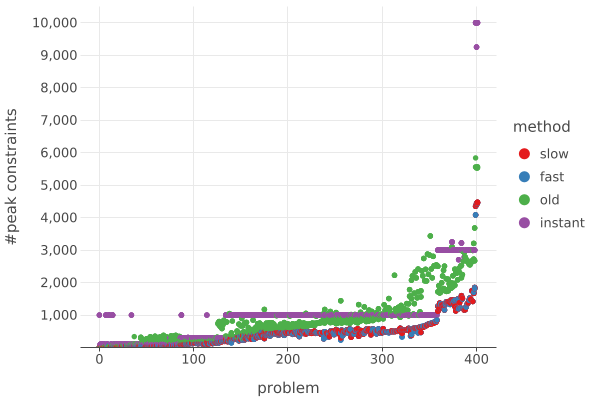
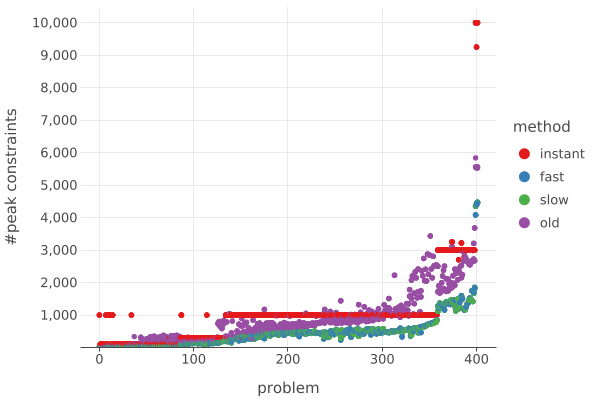
Finishing touch, I hope

diff --git a/src/main/kotlin/experiments/reconfiguration/ReconfigurationQuery2.kt b/src/main/kotlin/experiments/reconfiguration/ReconfigurationQuery2.kt
@@ -14,6 +14,7 @@ import org.jetbrains.kotlinx.statistics.kandy.layers.countPlot
 import org.jetbrains.kotlinx.statistics.kandy.statplots.boxplot
 import org.jetbrains.kotlinx.statistics.stats.mean
 import java.io.File
+import java.lang.Integer.parseInt
 import java.util.*
 import java.util.concurrent.Executors
 import java.util.concurrent.Future
@@ -107,7 +108,7 @@ fun main() {
 		val jitter = mutableListOf<String>()
 		val precedence = mutableListOf<Boolean>()
 		for ((index, problem) in sharedResults.withIndex()) {
-			for (trial in problem.trials.filter(condition).filter { candidates.contains(it.cutMethod) }.shuffled()) {
+			for (trial in problem.trials.filter(condition).filter { candidates.contains(it.cutMethod) }.shuffled().sortedBy { -it.cutMethod.ordinal }) {
 				methods.add(trial.cutMethod.toString())
 				paths.add(trial.pathType.toString())
 				problems.add(index)
@@ -131,6 +132,7 @@ fun main() {
 			"#peak constraints" to numOriginalConstraints,
 			"time" to time,
 			"#jobs" to numJobs,
+			"#intJobs" to numJobs.map { parseInt(it) },
 			"#tasks" to numTasks,
 			"utilization" to utilization,
 			"#cores" to numCores,
@@ -189,7 +191,14 @@ fun main() {
 //		points {
 //			x("problem")
 //			y("#constraints")
-//			color("method")
+//			color("method") {
+//				scale = categorical(
+//					"instant" to Color.rgb(228, 26, 28),
+//					"fast" to Color.rgb(55, 126, 184),
+//					"slow" to Color.rgb(77, 175, 74),
+//					"old" to Color.rgb(152, 78, 163)
+//				)
+//			}
 //			size = 2.5
 //		}
 //	}.save("v2/cut-method constraints.png")
@@ -197,7 +206,14 @@ fun main() {
 //		points {
 //			x("problem")
 //			y("#peak constraints")
-//			color("method")
+//			color("method") {
+//				scale = categorical(
+//					"instant" to Color.rgb(228, 26, 28),
+//					"fast" to Color.rgb(55, 126, 184),
+//					"slow" to Color.rgb(77, 175, 74),
+//					"old" to Color.rgb(152, 78, 163)
+//				)
+//			}
 //			size = 2.5
 //			y.axis.min = 1
 //		}
@@ -206,7 +222,14 @@ fun main() {
 //		points {
 //			x("problem")
 //			y("#peak constraints")
-//			color("method")
+//			color("method") {
+//				scale = categorical(
+//					"instant" to Color.rgb(228, 26, 28),
+//					"fast" to Color.rgb(55, 126, 184),
+//					"slow" to Color.rgb(77, 175, 74),
+//					"old" to Color.rgb(152, 78, 163)
+//				)
+//			}
 //			size = 2.5
 //			y.axis.min = 1
 //			y.axis.max = 1000
@@ -237,7 +260,14 @@ fun main() {
 //			x("problem")
 //			y("time")
 //			y.axis.name = "time (seconds)"
-//			color("method")
+//			color("method") {
+//				scale = categorical(
+//					"instant" to Color.rgb(228, 26, 28),
+//					"fast" to Color.rgb(55, 126, 184),
+//					"slow" to Color.rgb(77, 175, 74),
+//					"old" to Color.rgb(152, 78, 163)
+//				)
+//			}
 //			size = 2.5
 //		}
 //	}.save("v2/cut-method time.png")
@@ -257,7 +287,12 @@ fun main() {
 //			x("problem")
 //			y("time")
 //			y.axis.name = "time (seconds)"
-//			color("method")
+//			color("method") {
+//				scale = categorical(
+//					"instant" to Color.rgb(228, 26, 28),
+//					"fast" to Color.rgb(55, 126, 184),
+//				)
+//			}
 //			size = 2.5
 //		}
 //	}.save("v2/cut-method final time.png")
@@ -266,7 +301,12 @@ fun main() {
 //		points {
 //			x("problem")
 //			y("#constraints")
-//			color("method")
+//			color("method") {
+//				scale = categorical(
+//					"instant" to Color.rgb(228, 26, 28),
+//					"fast" to Color.rgb(55, 126, 184),
+//				)
+//			}
 //			size = 2.5
 //		}
 //	}.save("v2/cut-method final constraints.png")
@@ -301,6 +341,18 @@ fun main() {
 //		countPlot("#jobs")
 //	}.save("v2/minimization-method jobs finish.png")
 
+//	cutData(true, applyCandidateFilter = false) { it.config.isBase || it.config.numJobs != 1000 }.sortBy("#intJobs").groupBy("method").plot {
+//		countPlot("#jobs") {
+//			fillColor("method") {
+//				scale = categorical(
+//					"instant" to Color.rgb(228, 26, 28),
+//					"fast" to Color.rgb(55, 126, 184),
+//					"slow" to Color.rgb(77, 175, 74),
+//					"old" to Color.rgb(152, 78, 163)
+//				)
+//			}
+//		}
+//	}.save("v2/cut-method jobs finish.png")
 //
 //	cutData(false) { it.config.isBase || it.config.numTasks != 4 }.sortBy("#tasks").groupBy("method").plot {
 //		boxplot("#tasks", "#constraints")
@@ -309,7 +361,16 @@ fun main() {
 //		boxplot("#tasks", "time")
 //	}.save("v2/cut-method tasks time.png")
 //	cutData(true, applyCandidateFilter = false) { it.config.isBase || it.config.numTasks != 4 }.sortBy("#tasks").groupBy("method").plot {
-//		countPlot("#tasks")
+//		countPlot("#tasks") {
+//			fillColor("method") {
+//				scale = categorical(
+//					"instant" to Color.rgb(228, 26, 28),
+//					"fast" to Color.rgb(55, 126, 184),
+//					"slow" to Color.rgb(77, 175, 74),
+//					"old" to Color.rgb(152, 78, 163)
+//				)
+//			}
+//		}
 //	}.save("v2/cut-method tasks finish.png")
 //
 //	cutData(false) { it.config.isBase || it.config.utilization != 60 }.sortBy("utilization").groupBy("method").plot {
@@ -322,7 +383,16 @@ fun main() {
 //		}
 //	}.save("v2/cut-method utilization time.png")
 //	cutData(true, applyCandidateFilter = false) { it.config.isBase || it.config.utilization != 60 }.sortBy("utilization").groupBy("method").plot {
-//		countPlot("utilization")
+//		countPlot("utilization") {
+//			fillColor("method") {
+//				scale = categorical(
+//					"instant" to Color.rgb(228, 26, 28),
+//					"fast" to Color.rgb(55, 126, 184),
+//					"slow" to Color.rgb(77, 175, 74),
+//					"old" to Color.rgb(152, 78, 163)
+//				)
+//			}
+//		}
 //	}.save("v2/cut-method utilization finish.png")
 //
 //	cutData(false) { it.config.isBase || it.config.numCores != 3 }.sortBy("#cores").groupBy("method").plot {
@@ -332,7 +402,16 @@ fun main() {
 //		boxplot("#cores", "time")
 //	}.save("v2/cut-method cores time.png")
 //	cutData(true, applyCandidateFilter = false) { it.config.isBase || it.config.numCores != 3 }.sortBy("#cores").groupBy("method").plot {
-//		countPlot("#cores")
+//		countPlot("#cores") {
+//			fillColor("method") {
+//				scale = categorical(
+//					"instant" to Color.rgb(228, 26, 28),
+//					"fast" to Color.rgb(55, 126, 184),
+//					"slow" to Color.rgb(77, 175, 74),
+//					"old" to Color.rgb(152, 78, 163)
+//				)
+//			}
+//		}
 //	}.save("v2/cut-method cores finish.png")
 //
 //	cutData(false) { it.config.isBase || it.config.jitter != 20 }.sortBy("jitter").groupBy("method").plot {
@@ -342,7 +421,16 @@ fun main() {
 //		boxplot("jitter", "time")
 //	}.save("v2/cut-method jitter time.png")
 //	cutData(true, applyCandidateFilter = false) { it.config.isBase || it.config.jitter != 20 }.sortBy("jitter").groupBy("method").plot {
-//		countPlot("jitter")
+//		countPlot("jitter") {
+//			fillColor("method") {
+//				scale = categorical(
+//					"instant" to Color.rgb(228, 26, 28),
+//					"fast" to Color.rgb(55, 126, 184),
+//					"slow" to Color.rgb(77, 175, 74),
+//					"old" to Color.rgb(152, 78, 163)
+//				)
+//			}
+//		}
 //	}.save("v2/cut-method jitter finish.png")
 //
 //	cutData(false) { true }.groupBy("method").plot {
@@ -352,7 +440,16 @@ fun main() {
 //		boxplot("precedence?", "time")
 //	}.save("v2/cut-method precedence time.png")
 //	cutData(true, applyCandidateFilter = false) { true }.groupBy("method").plot {
-//		countPlot("precedence?")
+//		countPlot("precedence?") {
+//			fillColor("method") {
+//				scale = categorical(
+//					"instant" to Color.rgb(228, 26, 28),
+//					"fast" to Color.rgb(55, 126, 184),
+//					"slow" to Color.rgb(77, 175, 74),
+//					"old" to Color.rgb(152, 78, 163)
+//				)
+//			}
+//		}
 //	}.save("v2/cut-method precedence finish.png")
 
 //	minimizationData(true) { it.cutMethod == CutMethod.Instant }.plot {

diff --git a/src/main/kotlin/experiments/JobQuery.kt b/src/main/kotlin/experiments/JobQuery.kt
@@ -1,11 +1,13 @@
 package experiments
 
 import org.jetbrains.kotlinx.dataframe.api.*
+import org.jetbrains.kotlinx.kandy.dsl.categorical
 import org.jetbrains.kotlinx.kandy.dsl.plot
 import org.jetbrains.kotlinx.kandy.letsplot.export.save
 import org.jetbrains.kotlinx.kandy.letsplot.feature.layout
 import org.jetbrains.kotlinx.kandy.letsplot.layers.line
 import org.jetbrains.kotlinx.kandy.letsplot.layers.points
+import org.jetbrains.kotlinx.kandy.util.color.Color
 import org.jetbrains.kotlinx.statistics.binning.BinsOption
 import org.jetbrains.kotlinx.statistics.kandy.layers.countPlot
 import org.jetbrains.kotlinx.statistics.kandy.layers.histogram
@@ -24,8 +26,8 @@ fun reconfigurations() {
 	val numJobsToTimeOutsFast = mutableListOf<Int>()
 	val numJobsToTimeOutsInstant = mutableListOf<Int>()
 
-	//val prefix = "threaded-"
-	val prefix = ""
+	val prefix = "threaded-"
+	//val prefix = ""
 	val data = run {
 		val caseColumn = mutableListOf<Int>()
 		val jobsColumn = mutableListOf<Int>()
@@ -110,7 +112,7 @@ fun reconfigurations() {
 			"time" to timeColumn,
 			"sqrt(time)" to timeColumn.map { sqrt(it.toDouble()) },
 			"timed out" to timedOutColumn
-		)
+		).sortByDesc("method")
 	}
 
 	println("smallest #jobs is ${data.min("#jobs")} and largest #jobs is ${data.max("#jobs")}")
@@ -120,17 +122,23 @@ fun reconfigurations() {
 //			x.axis.max = 20000
 //			y.axis.min = 0
 //			y.axis.max = 60
+//			fillColor("method") {
+//				scale = categorical(
+//					"instant" to Color.rgb(228, 26, 28),
+//					"fast" to Color.rgb(55, 126, 184),
+//				)
+//			}
 //		}
 //	}.save("v3/${prefix}jobs distribution.png")
-	data.shuffle().groupBy("method").plot {
-		points {
-			x("#jobs")
-			y("time")
-			y.axis.name = "time (seconds)"
-			color("method")
-			size = 2.0
-		}
-	}.save("v3/${prefix}jobs vs time.png")
+//	data.shuffle().groupBy("method").plot {
+//		points {
+//			x("#jobs")
+//			y("time")
+//			y.axis.name = "time (seconds)"
+//			color("method")
+//			size = 2.0
+//		}
+//	}.save("v3/${prefix}jobs vs time.png")
 //	data.shuffle().groupBy("method").plot {
 //		points {
 //			x("#jobs")
@@ -149,29 +157,35 @@ fun reconfigurations() {
 //			y.axis.min = 1
 //		}
 //	}.save("v3/${prefix}jobs vs constraints.png")
-	data.shuffle().groupBy("method").plot {
-		points {
-			x("#jobs")
-			y("sqrt(time)")
-			y.axis.name = "sqrt(time) in seconds"
-			color("method")
-			size = 2.0
-		}
-	}.save("v3/${prefix}jobs vs sqrt time.png")
+//	data.shuffle().groupBy("method").plot {
+//		points {
+//			x("#jobs")
+//			y("sqrt(time)")
+//			y.axis.name = "sqrt(time) in seconds"
+//			color("method")
+//			size = 2.0
+//		}
+//	}.save("v3/${prefix}jobs vs sqrt time.png")
 //	data.filterBy("timed out").plot {
 //		countPlot("method") {
 //			y.axis.name = "#time outs"
 //		}
 //	}.save("v3/${prefix}method timeout.png")
-//	data.filterBy("timed out").groupBy("method").plot {
-//		histogram("#jobs", binsOption = BinsOption.byWidth(2000.0)) {
-//			x.axis.min = 0
-//			x.axis.max = 20000
-//			y.axis.min = 0
-//			y.axis.max = 60
-//			y.axis.name = "#time-outs"
-//		}
-//	}.save("v3/${prefix}method jobs timeout.png")
+	data.filterBy("timed out").groupBy("method").plot {
+		histogram("#jobs", binsOption = BinsOption.byWidth(2000.0)) {
+			x.axis.min = 0
+			//x.axis.max = 20000
+			y.axis.min = 0
+			y.axis.max = 60
+			y.axis.name = "#time-outs"
+			fillColor("method") {
+				scale = categorical(
+					"instant" to Color.rgb(228, 26, 28),
+					"fast" to Color.rgb(55, 126, 184),
+				)
+			}
+		}
+	}.save("v3/${prefix}method jobs timeout.png")
 
 	val massJobsToTimeOutsFast = IntArray(numJobsToTimeOutsFast.size)
 	val massJobsToTimeOutsInstant = IntArray(numJobsToTimeOutsInstant.size)
@@ -190,7 +204,12 @@ fun reconfigurations() {
 //		line {
 //			x("#jobs")
 //			y("#timeouts")
-//			color("method")
+//			color("method") {
+//				scale = categorical(
+//					"instant" to Color.rgb(228, 26, 28),
+//					"fast" to Color.rgb(55, 126, 184),
+//				)
+//			}
 //			x.axis.name = "X: the number of jobs"
 //			y.axis.name = "#time-outs for at most X jobs"
 //		}

diff --git a/src/main/kotlin/experiments/reconfiguration/ReconfigurationQuery.kt b/src/main/kotlin/experiments/reconfiguration/ReconfigurationQuery.kt
@@ -96,7 +96,7 @@ fun mainResults() {
 //		plot {
 //			countPlot(results.flatMap { problem ->
 //				val output = mutableListOf<String>()
-//				for (cutMethod in CutMethod.entries) {
+//				for (cutMethod in CutMethod.entries.reversed()) {
 //					if (problem.trials.any { it.cutMethod == cutMethod }) {
 //						output.add(cutMethod.toString())
 //					}
